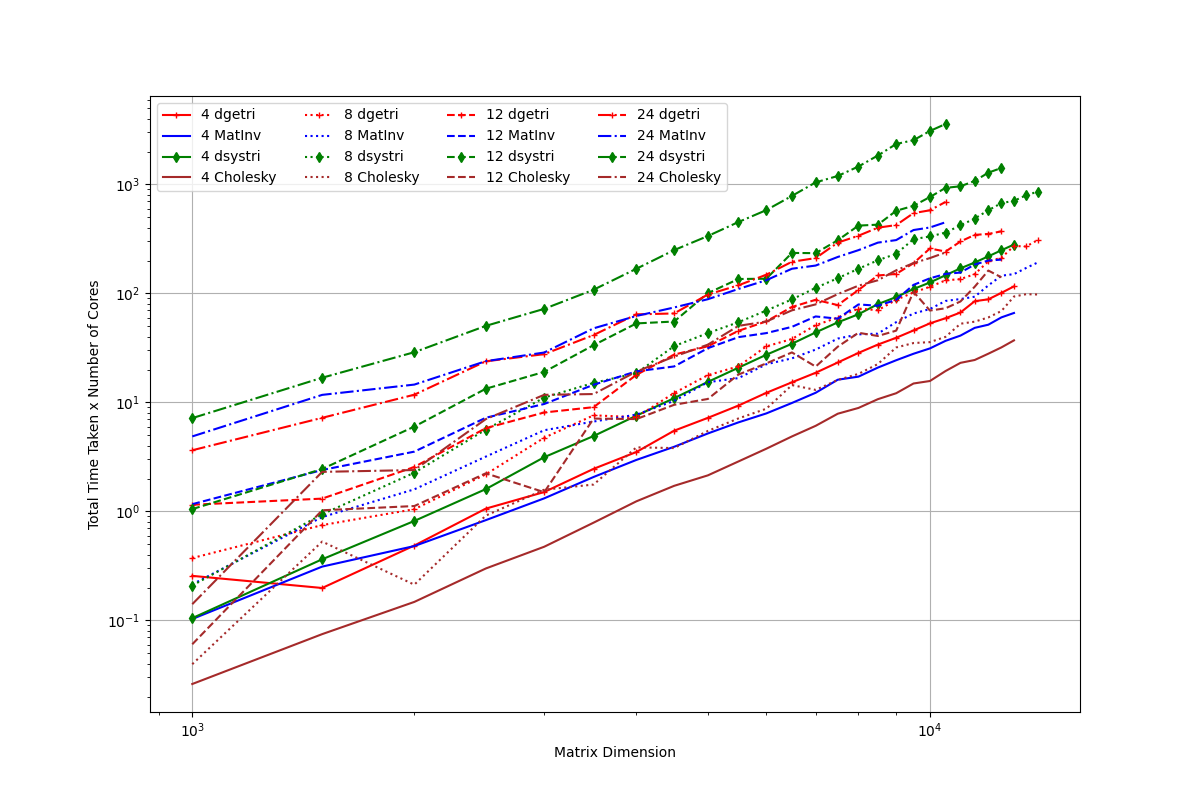
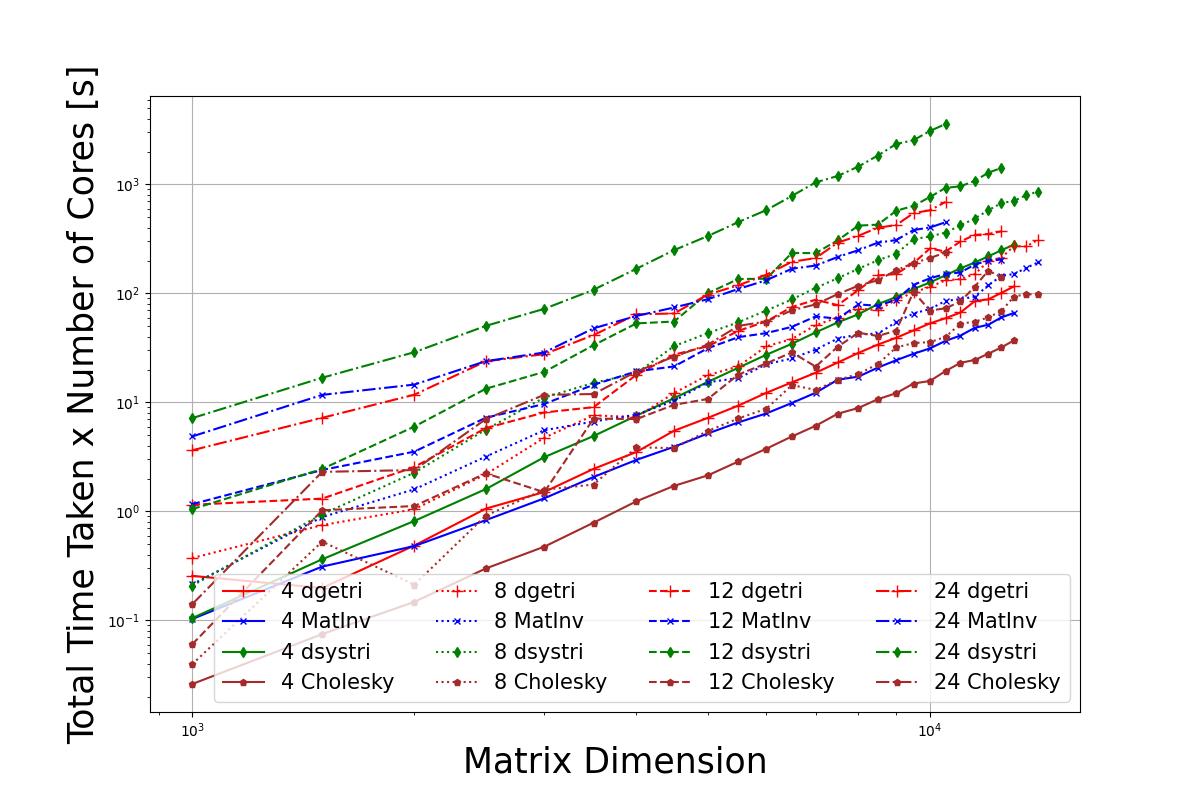
Plot Updated

diff --git a/Plot.py b/Plot.py
@@ -27,16 +27,15 @@ for FileCounter,FileItem in enumerate(FileNames):
         LW= (0,(1,10))
         LW= (5,(10,3))
     
-    plt.plot(Data[:,0], Data[:,1]*NCores, marker="+", markersize=5, color="red", linestyle=LW, label=str(NCores)+" dgetri ")
-
-    plt.plot(Data[:,0], Data[:,2]*NCores, color="blue", linestyle=LW, label=str(NCores)+" MatInv ")
+    plt.plot(Data[:,0], Data[:,1]*NCores, marker="+", markersize=8, color="red", linestyle=LW, label=str(NCores)+" dgetri ")
+    plt.plot(Data[:,0], Data[:,2]*NCores, color="blue", marker="x", markersize=5, linestyle=LW, label=str(NCores)+" MatInv ")
     plt.plot(Data[:,0], Data[:,3]*NCores, marker="d", markersize=5, color="green", linestyle=LW, label=str(NCores)+" dsystri ")
-    plt.plot(Data[:,0], Data[:,4]*NCores, color="brown", linestyle=LW, label=str(NCores)+" Cholesky")
+    plt.plot(Data[:,0], Data[:,4]*NCores, color="brown", marker="p", markersize=5, linestyle=LW, label=str(NCores)+" Cholesky")
 
 #plt.plot(XPlot, YPlot, "k-", lw=4, alpha=0.5, label="x=y^3 graph")
-plt.xlabel("Matrix Dimension")
-plt.ylabel("Total Time Taken x Number of Cores")
-plt.legend(ncol=4)
+plt.xlabel("Matrix Dimension", fontsize=25)
+plt.ylabel("Total Time Taken x Number of Cores [s]", fontsize=25)
+plt.legend(ncol=4, fontsize=15)
 #plt.legend(ncols=2)
 plt.xscale('log')
 plt.yscale('log')
